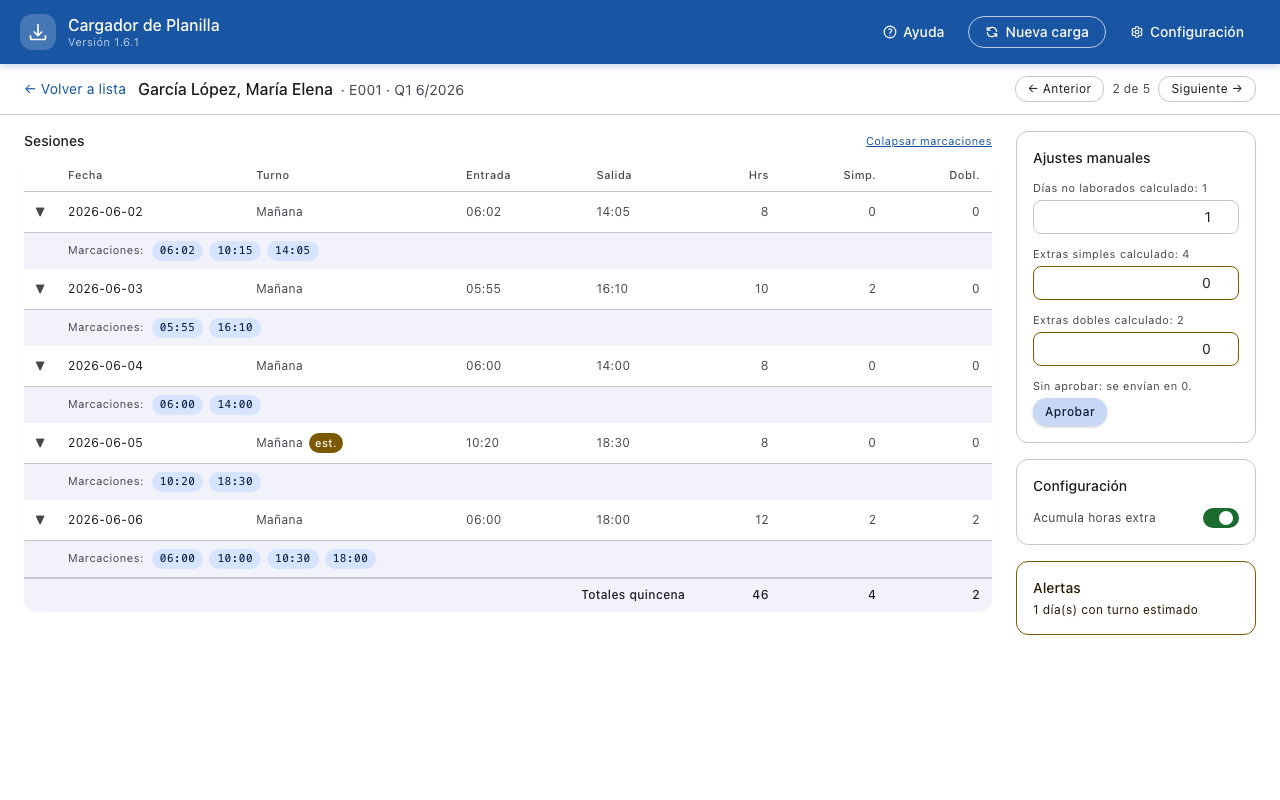
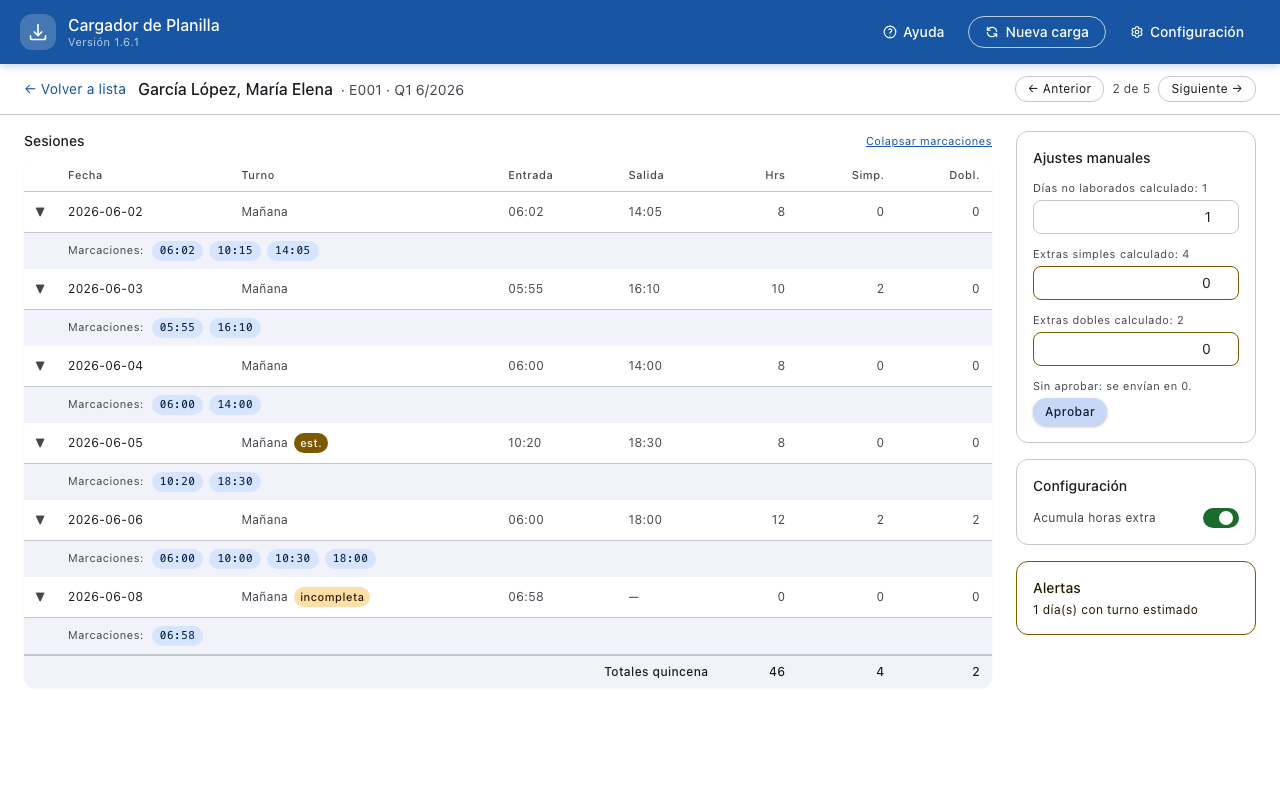
docs: review detail screenshot and manual show the incomplete-day badge
Claude-Session: https://claude.ai/code/session_01VucHjTz1EwVyp5NPvAmxrY

diff --git a/frontend/e2e/mock-data.ts b/frontend/e2e/mock-data.ts
@@ -174,6 +174,7 @@ export const SESSION_SUMMARIES: Record<string, SessionSummary[]> = {
     { date: '2026-06-04', shiftName: 'Mañana', entryTime: '2026-06-04T06:00:00', exitTime: '2026-06-04T14:00:00', workedHours: 8, simplesMinutes: 0, doblesMinutes: 0, scans: ['2026-06-04T06:00:00', '2026-06-04T14:00:00'], estimatedShift: false },
     { date: '2026-06-05', shiftName: 'Mañana', entryTime: '2026-06-05T10:20:00', exitTime: '2026-06-05T18:30:00', workedHours: 8, simplesMinutes: 0, doblesMinutes: 0, scans: ['2026-06-05T10:20:00', '2026-06-05T18:30:00'], estimatedShift: true },
     { date: '2026-06-06', shiftName: 'Mañana', entryTime: '2026-06-06T06:00:00', exitTime: '2026-06-06T18:00:00', workedHours: 12, simplesMinutes: 120, doblesMinutes: 120, scans: ['2026-06-06T06:00:00', '2026-06-06T10:00:00', '2026-06-06T10:30:00', '2026-06-06T18:00:00'], estimatedShift: false },
+    { date: '2026-06-08', shiftName: 'Mañana', entryTime: '2026-06-08T06:58:00', exitTime: null, workedHours: 0, simplesMinutes: 0, doblesMinutes: 0, scans: ['2026-06-08T06:58:00'], estimatedShift: false, incomplete: true },
   ],
   'E002': [
     { date: '2026-06-02', shiftName: 'Mañana', entryTime: '2026-06-02T06:00:00', exitTime: '2026-06-02T14:00:00', workedHours: 8, simplesMinutes: 0, doblesMinutes: 0, scans: ['2026-06-02T06:00:00', '2026-06-02T14:00:00'], estimatedShift: false },

diff --git a/docs/manual_usuario.md b/docs/manual_usuario.md
@@ -501,6 +501,10 @@ Los días donde el turno fue asignado automáticamente (turno estimado) se muest
 - La fila del día tiene un fondo ligeramente amarillo.
 - Las marcaciones originales de ese día se muestran con pastillas rojas en lugar de azules.
 
+##### Indicador de marcación incompleta
+
+Los días con una sola marcación que se dejaron vacíos en la verificación (vea [Marcaciones incompletas](#marcaciones-incompletas)) muestran una pastilla amarilla **"incompleta"** junto al nombre del turno. La hora que falta aparece como **"—"**, y el día no suma horas ni horas extra, aunque sí cuenta como trabajado. En la captura anterior, el 08/06 es un ejemplo.
+
 ##### Panel lateral derecho
 
 A la derecha de la tabla de sesiones encontrará tres secciones:
